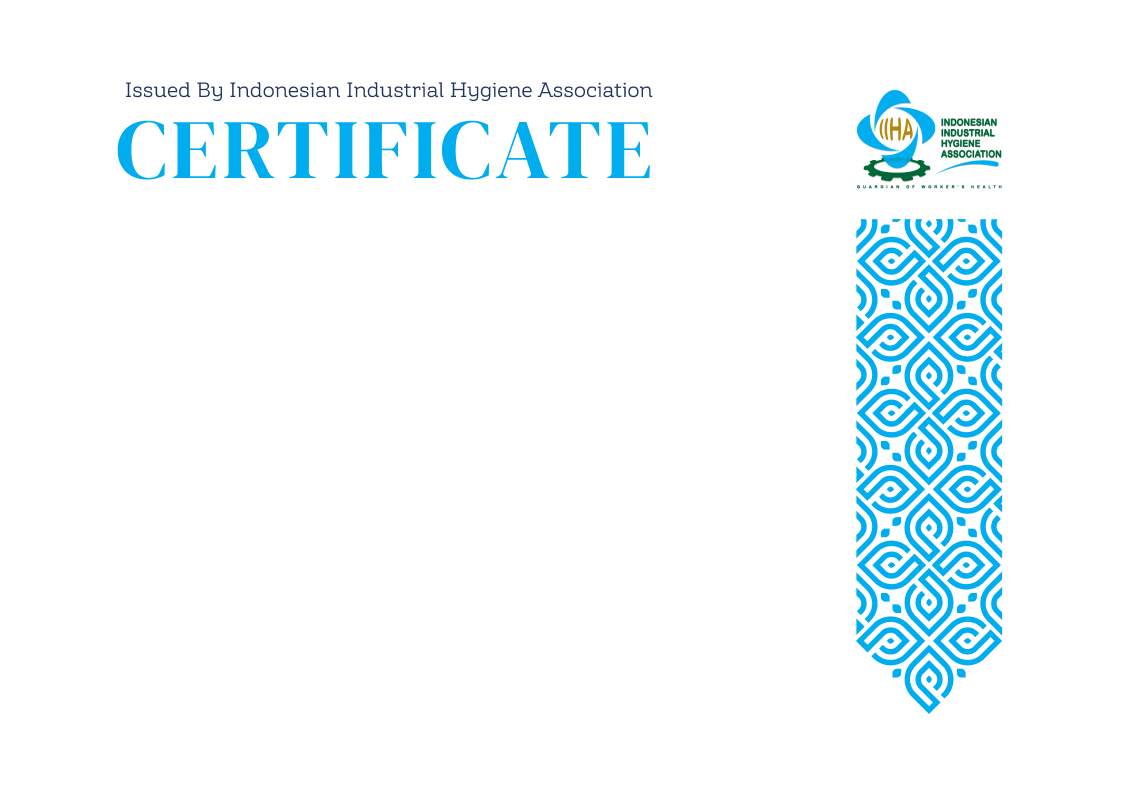
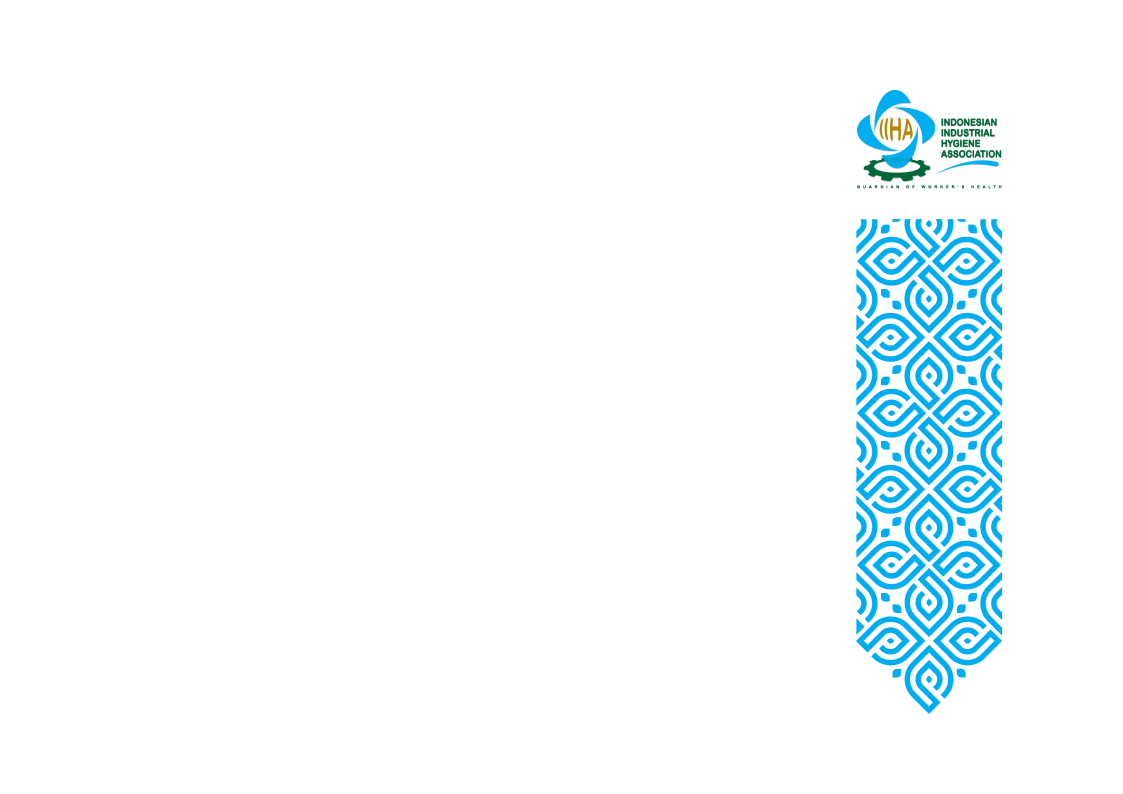
feat iiha connect template unfix

Changed region(s): [[0.0935, 0.1511, 0.5922, 0.2418], [0.0935, 0.0907, 0.5922, 0.1209]]

diff --git a/iiha-connect-event/iiha-event.css b/iiha-connect-event/iiha-event.css
@@ -1,158 +1,150 @@
+
 @page {
-    size: A4 landscape;
-    margin: 0;
+        size: A4 landscape;
+        margin: 0;
 }
 
 html,
 body {
-    margin: 0;
-    padding: 0;
-    width: 297mm;
-    height: 210mm;
+        margin: 0;
+        padding: 0;
+        width: 297mm;
+        height: 210mm;
 }
 
 body {
-    font-family: "DejaVu Serif", serif;
-    background: #f5f5f5;
-    -webkit-print-color-adjust: exact;
-    print-color-adjust: exact;
+        font-family: "DejaVu Serif", serif;
+        background: #f5f5f5;
+        -webkit-print-color-adjust: exact;
+        print-color-adjust: exact;
 }
 
 .iiha-cert2 {
-    position: relative;
-    width: 297mm;
-    height: 210mm;
-    margin: 0 auto;
-    overflow: hidden;
+        position: relative;
+        width: 297mm;
+        height: 210mm;
+        margin: 0 auto;
+        overflow: hidden;
 }
 
 .iiha-cert2__bg {
-    position: absolute;
-    inset: 0;
-    width: 297mm;
-    height: 210mm;
+        position: absolute;
+        inset: 0;
+        width: 297mm;
+        height: 210mm;
+        z-index: 0;
 }
 
-.iiha-cert2 p {
-    position: absolute;
-    margin: 0;
-    line-height: 1.15;
-    color: #23345e;
-    box-sizing: border-box;
+/* Area putih konten, tidak menumpang motif biru kanan */
+.iiha-cert2__content {
+        position: absolute;
+        left: 0;
+        top: 30mm;
+        width: 210mm;
+        right: 87mm; /* area motif biru kanan tidak tertimpa */
+        margin: 0 auto;
+        text-align: center;
+        z-index: 1;
+        background: transparent;
 }
-
-.iiha-cert2__cert-id {
-    left: 33.1mm;
-    top: 66.4mm;
-    font-family: "Amazing Slab Trial", "DejaVu Serif", serif;
-    font-size: 20px;
-    letter-spacing: 0.6px;
+.iiha-cert2__title {
+        font-size: 28pt;
+        font-weight: bold;
+        letter-spacing: 1px;
+        margin-bottom: 10pt;
+        margin-top: 0;
+        background: transparent;
 }
-
-.iiha-cert2__event_title {
-    left: 33.1mm;
-    top: 52.1mm;
-    width: 180.6mm;
-    font-family: "DM Serif Display", "DejaVu Serif", serif;
-    font-size: 30.461px;
-    letter-spacing: 17.363px;
-    text-transform: uppercase;
-    line-height: 1;
-    white-space: nowrap;
+.iiha-cert2__subtitle {
+        font-size: 14pt;
+        font-weight: 500;
+        margin-bottom: 16pt;
+        background: transparent;
 }
-
-.iiha-cert2__presented {
-    left: 33.1mm;
-    top: 76.7mm;
-    width: 180.0mm;
-    font-family: "Amazing Slab Trial", "DejaVu Serif", serif;
-    font-size: 20px;
-    letter-spacing: 0.6px;
-    color: #23345e;
-    white-space: normal;
-    overflow-wrap: break-word;
-}
-
 .iiha-cert2__name {
-    left: 31.7mm;
-    top: 94.4mm;
-    width: 180.4mm;
-    max-height: 24mm;
-    font-family: "Lora", "DejaVu Serif", serif;
-    font-style: italic;
-    font-weight: 700;
-    font-size: 24px;
-    letter-spacing: 0.4px;
-    line-height: 1.1;
-    color: #00adee !important;
-    white-space: normal;
-    overflow-wrap: break-word;
-    overflow: hidden;
+        font-size: 22pt;
+        font-weight: bold;
+        margin-bottom: 10pt;
+        background: transparent;
+}
+.iiha-cert2__as {
+        font-size: 13pt;
+        margin-bottom: 8pt;
+        background: transparent;
+}
+.iiha-cert2__event {
+        font-size: 18pt;
+        font-weight: bold;
+        margin-bottom: 6pt;
+        background: transparent;
+}
+.iiha-cert2__event-bold {
+        font-size: 18pt;
+        font-weight: bold;
+        background: transparent;
+}
+.iiha-cert2__desc {
+        font-size: 11pt;
+        margin-bottom: 6pt;
+        background: transparent;
+}
+.iiha-cert2__date {
+        font-size: 12pt;
+        font-weight: bold;
+        margin-bottom: 18pt;
+        background: transparent;
 }
 
-.iiha-cert2__detail {
-    position: absolute;
-    left: 33.1mm;
-    top: 115.3mm;
-    width: 180.4mm;
-    font-family: "Amazing Slab Trial", "DejaVu Serif", serif;
-    font-size: 20px;
-    letter-spacing: 0.6px;
-    line-height: 1.2;
-    color: #23345e;
+/* Tanda tangan di bawah area konten, tidak menumpang motif kanan */
+.iiha-cert2__signatures {
+        position: absolute;
+        left: 0;
+        right: 87mm;
+        bottom: 38mm;
+        width: 210mm;
+        display: flex;
+        justify-content: space-between;
+        z-index: 2;
+        background: transparent;
 }
-
-.iiha-cert2__detail p {
-    position: static;
-    margin: 0;
-    white-space: normal;
-    overflow-wrap: break-word;
+.iiha-cert2__sign-block {
+        text-align: center;
+        width: 45%;
+        background: transparent;
 }
-
-.iiha-cert2__detail p + p {
-    margin-top: 0;
-}
-
-.iiha-cert2__hours {
-    left: 33.1mm;
-    top: 139.0mm;
-    font-family: "Amazing Slab Trial", "DejaVu Serif", serif;
-    font-size: 20px;
-    letter-spacing: 0.6px;
-}
-
 .iiha-cert2__sign-name {
-    left: 32.3mm;
-    top: 180.5mm;
-    width: 120mm;
-    font-family: "Amazing Slab Trial", "DejaVu Serif", serif;
-    font-size: 14.637px;
-    letter-spacing: 0.4391px;
-    line-height: 1.18;
-    font-weight: 700;
-    color: #23345e;
-    white-space: normal;
-    overflow-wrap: break-word;
+        font-size: 12pt;
+        font-weight: bold;
+        background: transparent;
 }
-
 .iiha-cert2__sign-role {
-    left: 32.3mm;
-    top: 185.3mm;
-    width: 120mm;
-    font-family: "Amazing Slab Trial", "DejaVu Serif", serif;
-    font-size: 12.674px;
-    letter-spacing: 0.3802px;
-    line-height: 1.2;
-    color: #23345e;
-    white-space: normal;
-    overflow-wrap: break-word;
+        font-size: 10pt;
+        margin-bottom: 2mm;
+        background: transparent;
 }
 
-.iiha-cert2__barcode {
-    position: absolute;
-    left: 157.9mm;
-    top: 164.3mm;
-    width: 23.8mm;
-    height: auto;
-    object-fit: contain;
+/* Sponsor bar di bawah, tidak menumpang motif kanan */
+.iiha-cert2__sponsors {
+        position: absolute;
+        left: 0;
+        right: 87mm;
+        bottom: 10mm;
+        width: 210mm;
+        display: flex;
+        flex-wrap: wrap;
+        justify-content: center;
+        align-items: center;
+        gap: 8mm;
+        z-index: 2;
+        background: transparent;
+}
+.iiha-cert2__sponsors img {
+        height: 13mm;
+        width: auto;
+        max-width: 40mm;
+        object-fit: contain;
+        margin: 0 2mm 2mm 2mm;
+        background: #fff;
+        border-radius: 2mm;
+        box-shadow: 0 0 2px #ccc;
 }

diff --git a/iiha-connect-event/iiha-event.html b/iiha-connect-event/iiha-event.html
@@ -8,21 +8,50 @@
 </head>
 <body>
     <div class="iiha-cert2">
+        <!-- Background frame -->
         <img class="iiha-cert2__bg" src="certificate-light-blue.jpg" alt="Certificate Frame">
-        <p class="iiha-cert2__event_title">Of Attandance</p>
-        <p class="iiha-cert2__cert-id">Certificate ID: IIHA-HRA-2026-001</p>
-        <p class="iiha-cert2__presented">This certificate is proudly presented to</p>
-        <p class="iiha-cert2__name">Prof. Dr. A. Suci Setiani Annisa Skom, MT, Msc, MM</p>
 
-        <div class="iiha-cert2__detail">
-            <p>as a Participant in the “Advanced Industrial Hygiene, Health Risk Assessment"</p>
-            <p>Conducted on July 3, 2025</p>
+        <!-- Background frame sudah mengandung motif dan logo -->
+
+        <!-- Konten utama -->
+        <div class="iiha-cert2__content">
+            <div class="iiha-cert2__title">CERTIFICATE OF PARTICIPATION</div>
+            <div class="iiha-cert2__subtitle">This certificate is Proudly Presented to:</div>
+            <div class="iiha-cert2__name">Mariana Gita Maler</div>
+            <div class="iiha-cert2__as">As participant in</div>
+            <div class="iiha-cert2__event"><span class="iiha-cert2__event-bold">the 10<sup>th</sup> IIHA Connect Conference</span></div>
+            <div class="iiha-cert2__desc">Industrial Hygiene as a Pillar of Sustainability :<br>Recognizing Industrial Hygiene as an Essential Key for Succeeding SDGs</div>
+            <div class="iiha-cert2__date">held on 23 - 24 of October 2025 at JS Luwansa Hotel, Jakarta, Indonesia</div>
         </div>
 
-        <p class="iiha-cert2__hours">Contact hours: 8</p>
-        <p class="iiha-cert2__sign-name">Muthia Ashifa, SKM, M.K.K.K, HIU, CCMS</p>
-        <p class="iiha-cert2__sign-role">President of indonesian Industrial Hygiene Association</p>
-        <img class="iiha-cert2__barcode" src="barcode.png" alt="Certificate Barcode">
+            <!-- Tanda tangan dan jabatan -->
+            <div class="iiha-cert2__signatures">
+                <div class="iiha-cert2__sign-block">
+                    <div class="iiha-cert2__sign-name">Muthia Ashifa, SKM, M.K.K, HIU, CCMs</div>
+                    <div class="iiha-cert2__sign-role">President of IIHA</div>
+                </div>
+                <div class="iiha-cert2__sign-block">
+                    <div class="iiha-cert2__sign-name">Dr. Eng. Stevan Sunarno, SKM, M.K.K.</div>
+                    <div class="iiha-cert2__sign-role">Chairman of The 10th IIHA Connect 2025</div>
+                </div>
+            </div>
+
+        <!-- Sponsor bar -->
+        <div class="iiha-cert2__sponsors">
+            <!-- Logo sponsor bisa diisi img sesuai kebutuhan, contoh: -->
+            <img src="images/image-21.webp" alt="Sponsor 1">
+            <img src="images/image-24.webp" alt="Sponsor 2">
+            <img src="images/logo-partner.webp" alt="Sponsor 3">
+            <img src="images/logo-pertamina-hulu-indonesia.webp" alt="Sponsor 4">
+            <img src="images/Logo-SIE.webp" alt="Sponsor 5">
+            <img src="images/Logo-SSH-Company.webp" alt="Sponsor 6">
+            <img src="images/Logo-Unilab.webp" alt="Sponsor 7">
+            <img src="images/pante-nusa.webp" alt="Sponsor 8">
+            <img src="images/PHI.webp" alt="Sponsor 9">
+            <img src="images/Pusri-Palembang-Logo-scaled-1.webp" alt="Sponsor 10">
+            <img src="images/syslab-removebg-preview.webp" alt="Sponsor 11">
+            <img src="images/TUEV-NORD_Logo_Electric-Blue_sRGB-1.webp" alt="Sponsor 11">
+        </div>
     </div>
 </body>
 </html>
